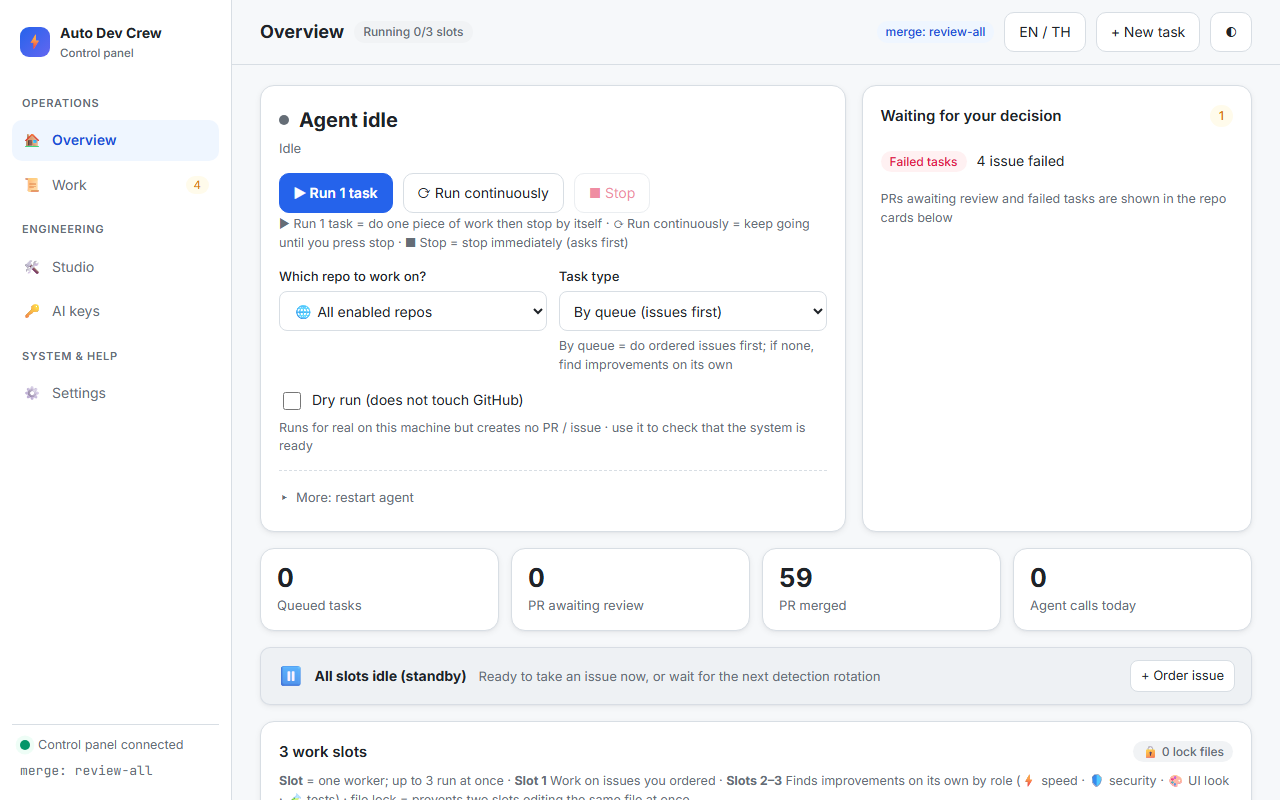
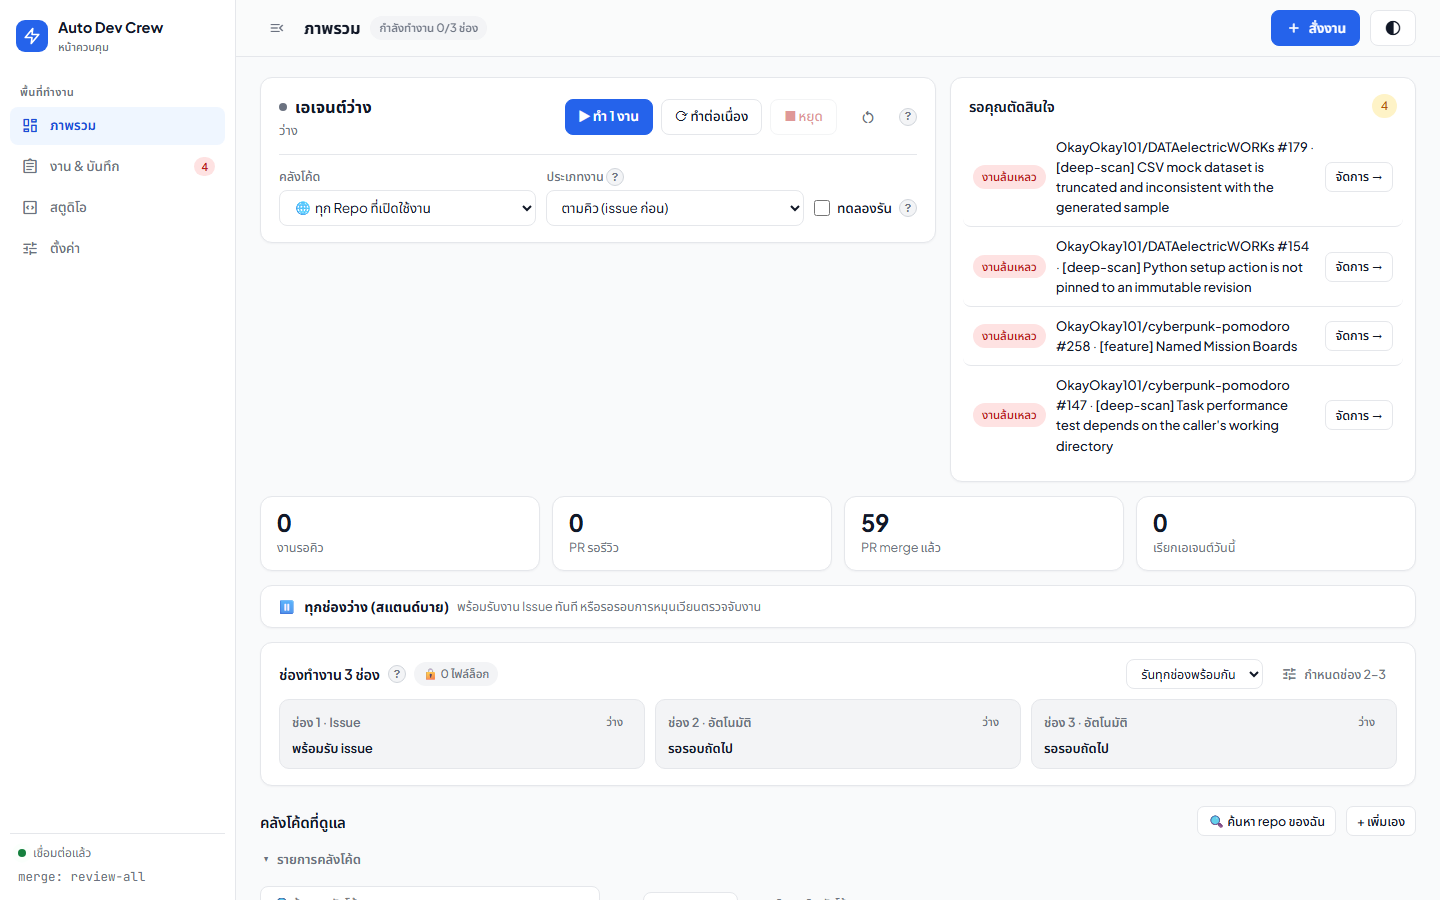
docs: update GUI guide and main screenshot for 4-menu redesign

diff --git a/docs/en/gui.md b/docs/en/gui.md
@@ -13,45 +13,39 @@ The GUI is a local web server built with Python's `http.server`. It uses no exte
 - **Confirmation:** buttons that scan or create issues ask for confirmation first (`confirm()`). Do not bypass this with JavaScript.
 - **Limits:** there is no password login in the GUI any more; the login system was removed. Remote access requires an SSH tunnel or another method set up by the administrator.
 
-## 2. The five left-menu pages
+## 2. The four main pages
+
+The left navigation rail collapses and expands on desktop (and turns into a bottom bar on mobile). The top bar shows the page title, active slot count, a single **+ New task** button, and the theme switcher (Auto / Light / Dark).
 
 ### 2.1 Overview
-- **▶ Run one job:** do one piece of work, then stop automatically.
-- **⟳ Run continuously:** start `--loop` mode; keep working until you press stop or work runs out.
+- **▶ Run 1 task:** do one piece of work, then stop automatically.
+- **⟳ Run loop:** start `--loop` mode; keep working until you press stop or work runs out.
 - **■ Stop:** cancel the job in progress. You are asked to confirm.
-- **🔄 Restart:** under "More". Cancels the job in progress and starts a new round with the same settings. Open PRs are not closed.
-- **Slot cards (3 slots):** show each slot's status; you can assign a persona or repository to a slot.
-- **Repository cards:** show each repository with its status, enabled state, and merge level.
-- **The `merge:` badge** in the top-right shows the current `merge_mode`.
+- **🔄 Restart:** icon button next to Stop. Cancels the job in progress and starts a new round with the same settings. Open PRs are not closed.
+- **Action Inbox (Needs attention):** lists PRs awaiting review and failed issues with direct **View diff** or **Manage →** buttons.
+- **3 work slots:** single-row strip showing slots 1–3, a run-mode selector dropdown, and a **Slots 2–3** toggle to assign a persona or repository.
+- **Managed repositories:** compact expandable rows; expand a row to view its issue / PR tables and per-repo settings.
 
 Before restarting or stopping, check whether slots are idle. If a job is running, it will be cancelled.
 
-### 2.2 Jobs
-- **Live log:** the runner's log, updated in real time.
-- **Job history:** past jobs. You can open the diff of each one.
+### 2.2 Work & Logs
+- **Queue & Attention:** unified filterable table of failed issues, queued/running tasks, and open PRs.
+- **Live log:** the runner's log, updated in real time with slot 1–3 filters.
+- **Task history:** past jobs. You can open the diff of each one.
 
 ### 2.3 Studio
-- Ask the AI to change code in a selected repository.
-- Review the resulting diff.
+- Two-column workspace: the left column handles AI edit prompts, quick checks (tests, syntax, security), and explorer tabs (**Files / Issues / Scan / Feature Plan**); the right column shows **Diff / File / Console** output.
 - Find `[AI-TODO]` tags and create issues from them.
 - Run a deep scan. See [architecture.md](architecture.md#10-deep-scan).
 - Feature plans (`ai-plan`). See [github-workflow.md](github-workflow.md#4-feature-plans-ai-plan).
 
-### 2.4 Keys (AI keys)
-- View and add provider keys.
-- Assign roles: `coder`, `judge`, `scan`.
-- Set the failover order of engines.
-- See today's usage per engine (from `state/usage.jsonl`).
-
-Details: [providers-and-keys.md](providers-and-keys.md).
-
-### 2.5 Settings
-- Merge mode (`review-all`, `small-only`, `merge-all`).
-- CI checks (`allow_no_ci`).
-- Quality gate (judge) on or off.
-- UI language (`th` / `en`).
-- **Glossary:** explains the system's terms.
-- **Shut down the server.**
+### 2.4 Settings
+Organized into five sub-tabs:
+- **General & Merge:** UI language (`th` / `en`), merge mode (`review-all`, `small-only`, `merge-all`), CI checks (`allow_no_ci`), AI quality check (`judge`), and **Shut down server**.
+- **AI Keys & Models:** manage Pollinations (BYOP), provider keys, `coder` / `judge` / `scan` roles, and the `⋯` overflow menu (test, promote, delete). Details: [providers-and-keys.md](providers-and-keys.md).
+- **Failover:** set the failover order of engines.
+- **AI Usage:** today's call history and per-key outcomes (from `state/usage.jsonl`).
+- **System Tools:** Doctor, Playground, MCP Hub, Safety Quiz, Safe Revert Plan, and Terminology glossary.
 
 ## 3. Terms you will see
 

diff --git a/STATE.md b/STATE.md
@@ -26,6 +26,7 @@ Auto Dev Crew: local GUI (`auto_dev_crew/gui.py`) + runner. Thai and English UI 
 - **2026-11-25 UI/UX Redesign (Modern SaaS / Linear-style, 4-Menu Action-First):**
   - รื้อโครงสร้าง `auto_dev_crew/static/index_sidebar.html` ใหม่เป็นสไตล์ Modern SaaS / Linear (Light, Dark, Auto + Responsive Mobile Bottom Bar), ยุบเหลือ 4 เมนูหลัก (`ภาพรวม`, `งาน & บันทึก`, `สตูดิโอ`, `ตั้งค่า`), คลีน Top Bar (ปุ่ม `+ สั่งงาน` ปุ่มเดียว), Action Inbox กดจัดการ/ดู Diff ได้ทันที, แถบ 3 ช่องทำงานแถวเดียว, รายการคลังโค้ดแบบ Compact กดขยายได้, สตูดิโอแบ่ง 2 คอลัมน์, และหน้าตั้งค่าแบบ Sub-tabs พร้อมเมนู `⋯` ในแถวโมเดล BYOP/Provider และ Tooltip `(?)` แทนคำอธิบายยาว
   - ซิงค์คำแปลภาษาอังกฤษใน `auto_dev_crew/locales/en.json` (+130 คีย์) และอัปเดต `tests/test_gui_sidebar.py`
+  - อัปเดตเอกสาร `docs/gui.md`, `docs/en/gui.md` และภาพหน้าจอ `docs/images/gui_main.png` ให้ตรงกับ UI 4 เมนูใหม่
   - Spec: `docs/superpowers/specs/2026-11-25-ui-redesign-design.md` · Plan: `docs/superpowers/plans/2026-11-25-ui-redesign.md`
 - **2026-11-25 UI Remake (Google Material 3 + Google Fonts):**
   - รีเมค `auto_dev_crew/static/index_sidebar.html`, `auto_dev_crew/public/index.html`, `auto_dev_crew/static/index.html`, และ `auto_dev_crew/static/mission_control.js` ด้วย Google Material 3 Tokens (`--md-sys-color-*`, Google Blue `#1a73e8` / `#a8c7fa`), Google Fonts (`Plus Jakarta Sans` + `Noto Sans Thai` + `JetBrains Mono`), `Material Symbols Rounded`, Collapsible Navigation Rail (80px ↔ 256px), และสวิตช์ธีม Auto / Light / Dark
